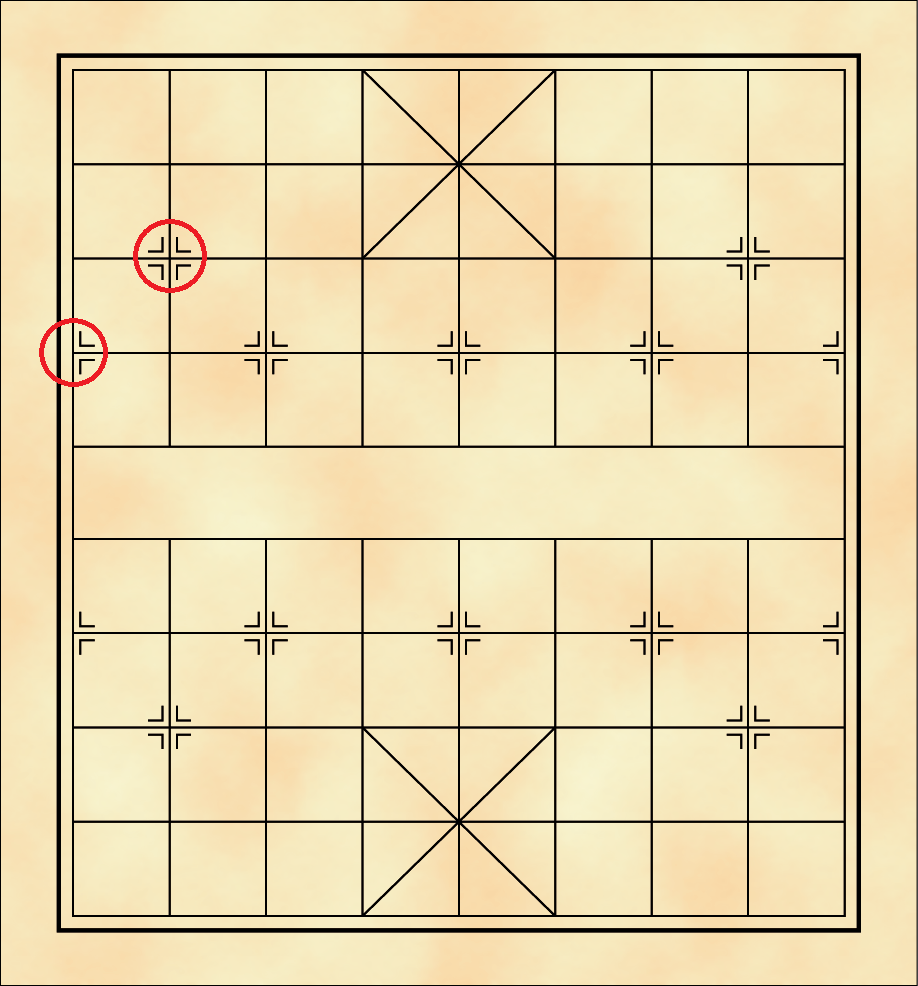
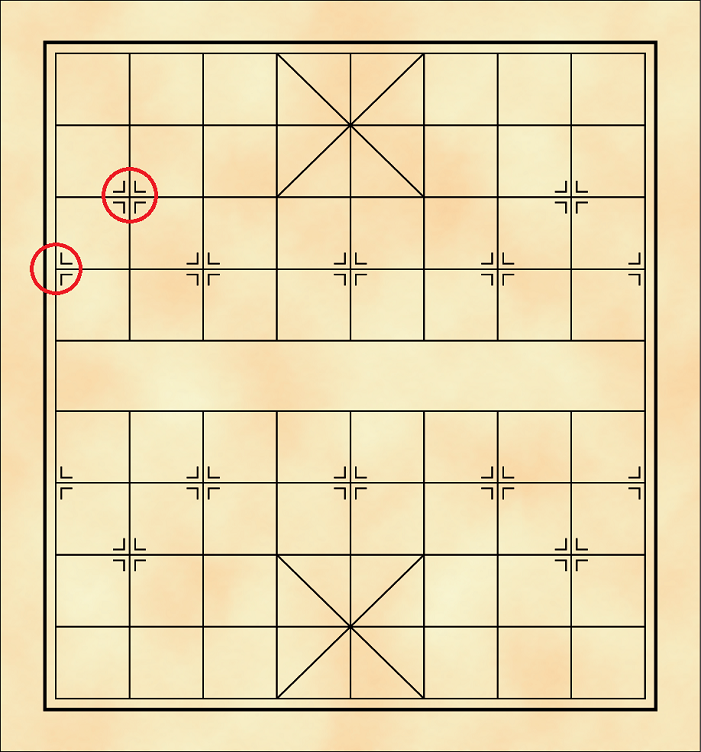
fixed board position
แก้ตำแหน่งกระดานเล็กน้อย
เพิ่มรูปเนื้อหาจีน 1 รูป แก้ขนาดรูปเดิม
ส่วนหน้าแก้ปัญหาการเดินนั่น พังไปแล้ว

diff --git a/quiz_problem_th.html b/quiz_problem_th.html
@@ -3,29 +3,36 @@
 <head>
 	<title></title>
 	<link rel="stylesheet" type="text/css" href="css/quiz.css">
+	<link rel="stylesheet" type="text/css" href="css/setup.css">
+	<script type="text/javascript">
+		function resize(){
+			document.getElementsByTagName('body')[0].style.zoom=screen.availHeight/1000;
+			var x = document.getElementById("iframe");
+			var y = x.contentDocument;
+			y.body.style.zoom=0.825*screen.availHeight/1000;
+		}
+	</script>
 	<style type="text/css">
-iframe{
-	height: 950px;
-	width: 950px;
-	zoom:0.7;
-	position: absolute;
-}
-.main{
-	text-align: center;
-	margin-top: 25px;
-	margin-bottom: 25px;
-	margin-right: 10%;
-	margin-left: 23%;
-	position: absolute;
-}
-#result{
-	position: absolute;
-}
-p{
-	padding-left: 10px;
-	padding-right: 5px;
-	text-align: center;
-}
+	iframe{
+		zoom:0.825;
+		text-align: center;
+		border: none;
+		position: absolute;
+	}
+
+	#main{
+		position: absolute;
+		top: 10px;
+		margin-left: 375px;
+	}
+
+	#result{position: absolute;}
+
+	p{
+		padding-left: 10px;
+		padding-right: 5px;
+		text-align: center;
+	}
 
 
 	</style>
@@ -33,8 +40,8 @@ p{
 <body>
 <div id="title"><img id="title_img" src="gui/page_name/pname_quiz2.png"></div>
 <div>
-<div class="main">
-	<iframe src="processing_board/quiz_hores_th.html"></iframe>
+<div id="main">
+	<iframe src="processing_board/quiz_hores_th.html" scrolling="no" height="949" width="949"></iframe>
 
 
 </div>

diff --git a/play_ch.html b/play_ch.html
@@ -17,7 +17,7 @@
 	}
 	#main{
 		position: relative;
-		top: 10px;
+		top: 100px;
 		margin-left: 425px;
 	}
 

diff --git a/play_in.html b/play_in.html
@@ -17,7 +17,7 @@
 	}
 	#main{
 		position: relative;
-		top: 10px;
+		top: 100px;
 		margin-left: 375px;
 	}
 

diff --git a/play_th.html b/play_th.html
@@ -17,7 +17,7 @@
 	}
 	#main{
 		position: relative;
-		top: 10px;
+		top: 100px;
 		margin-left: 375px;
 	}
 
